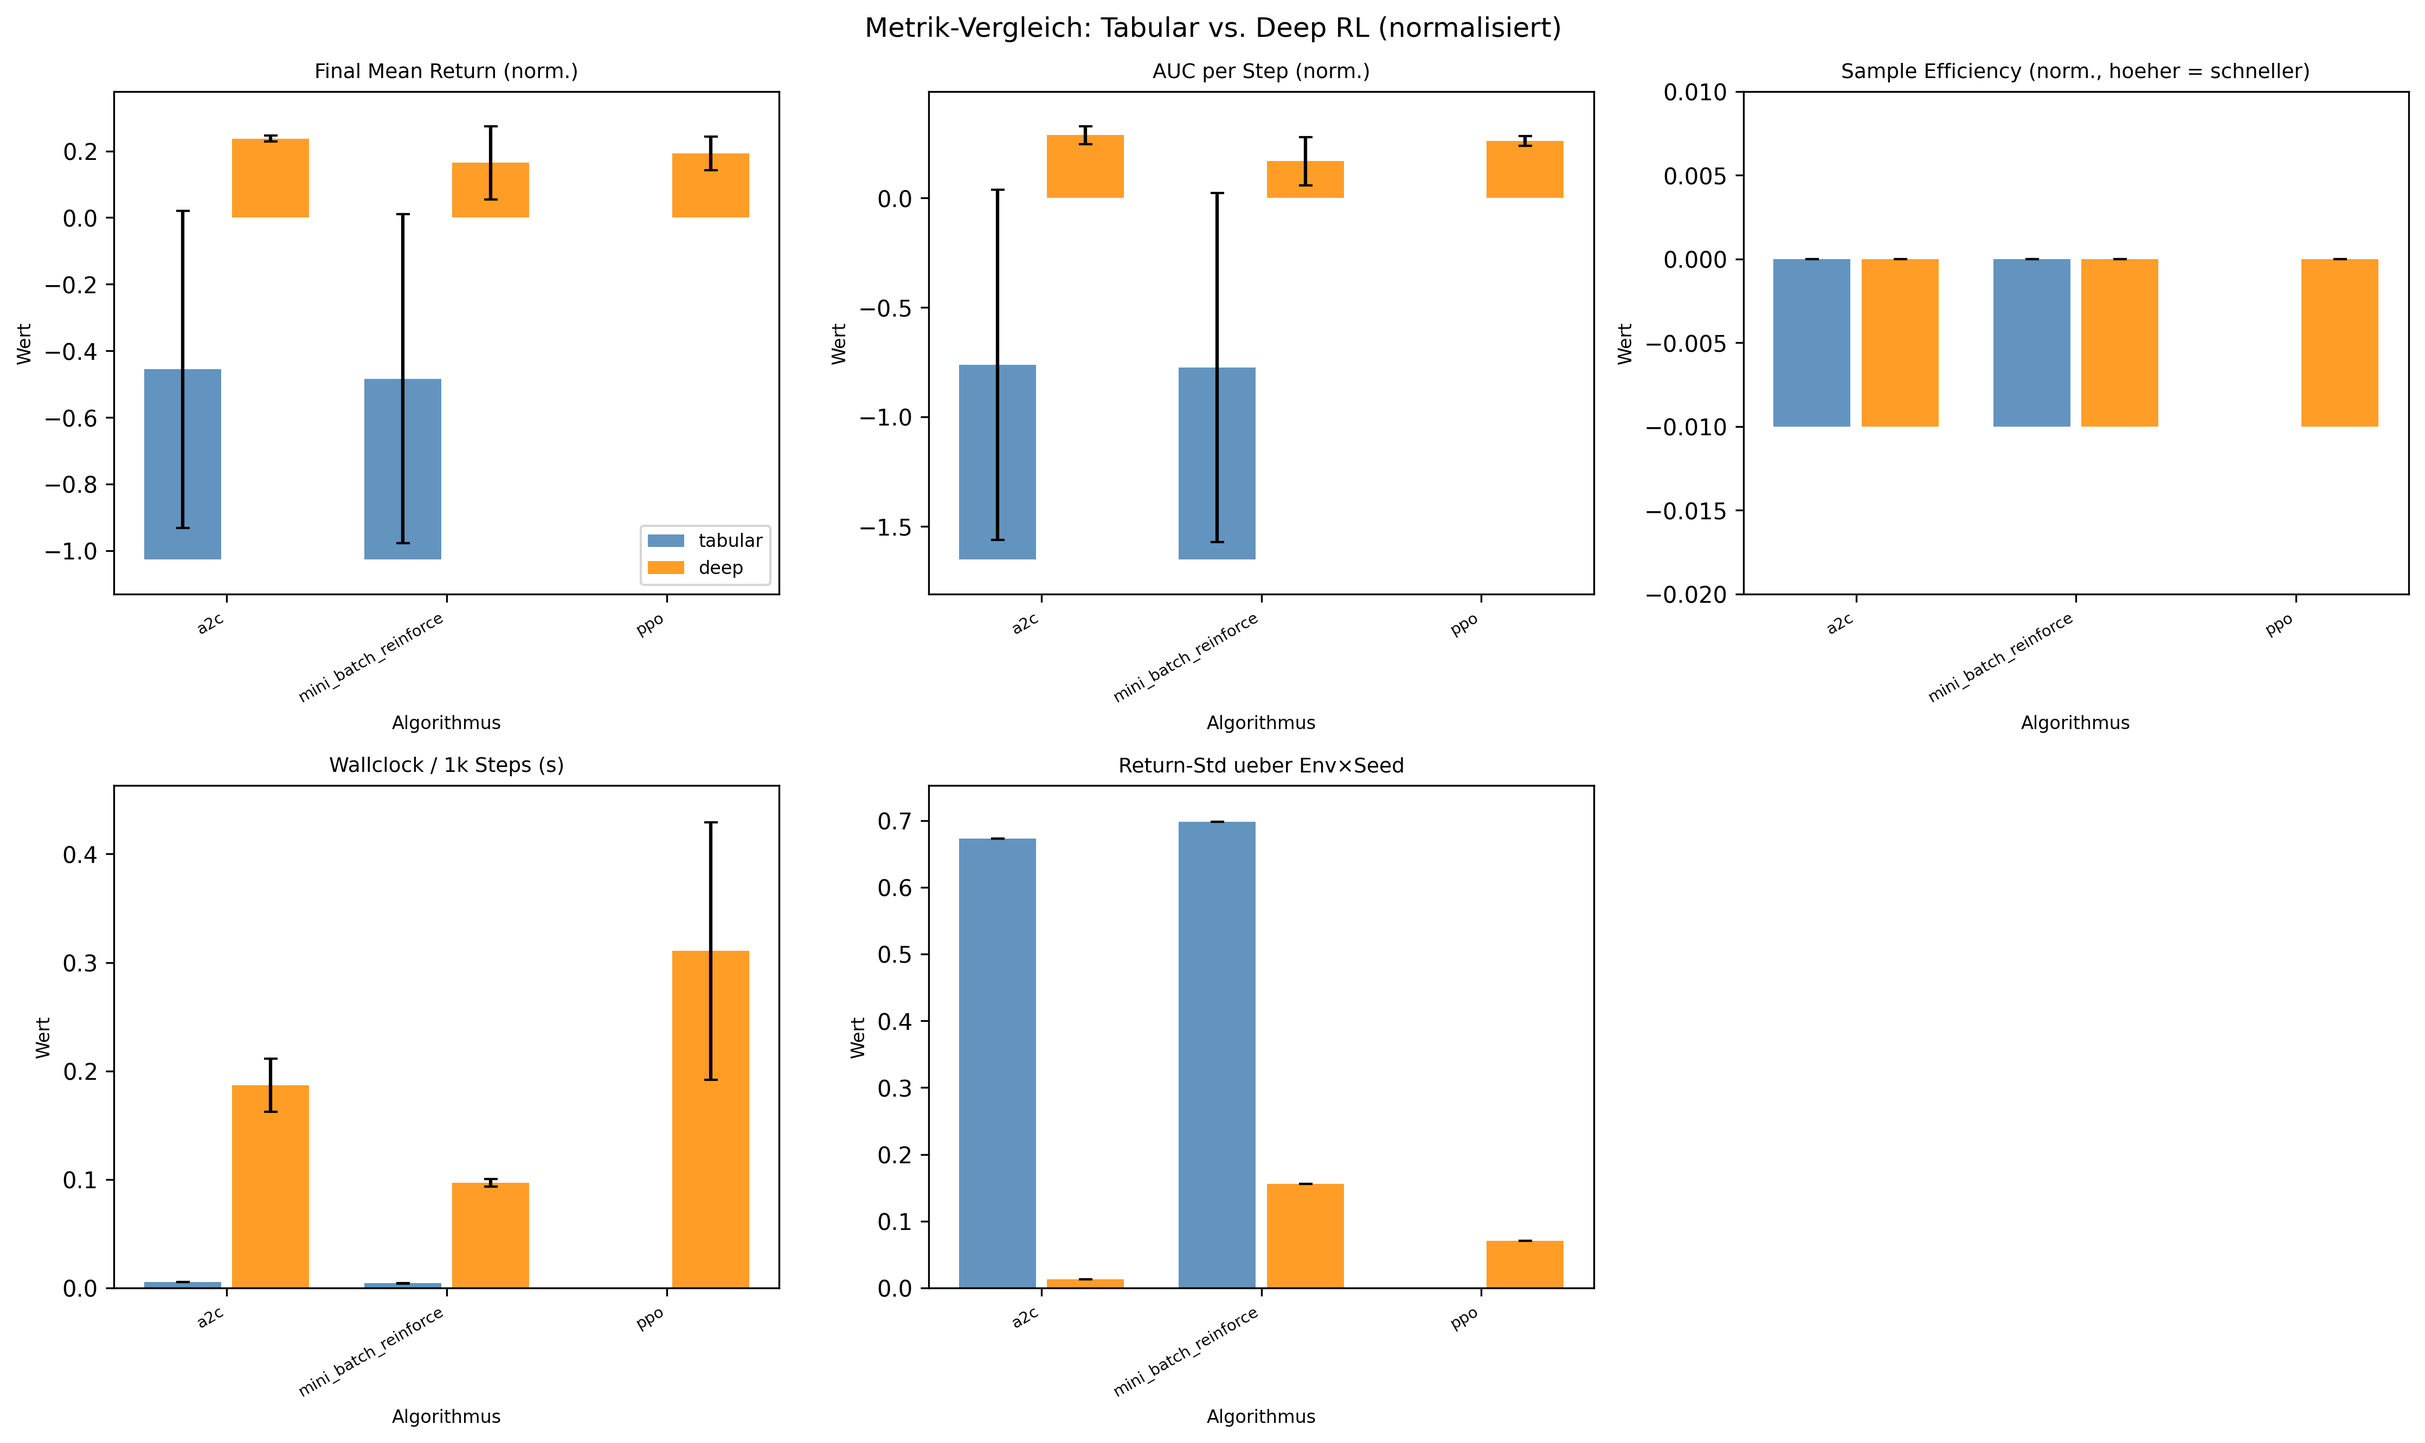
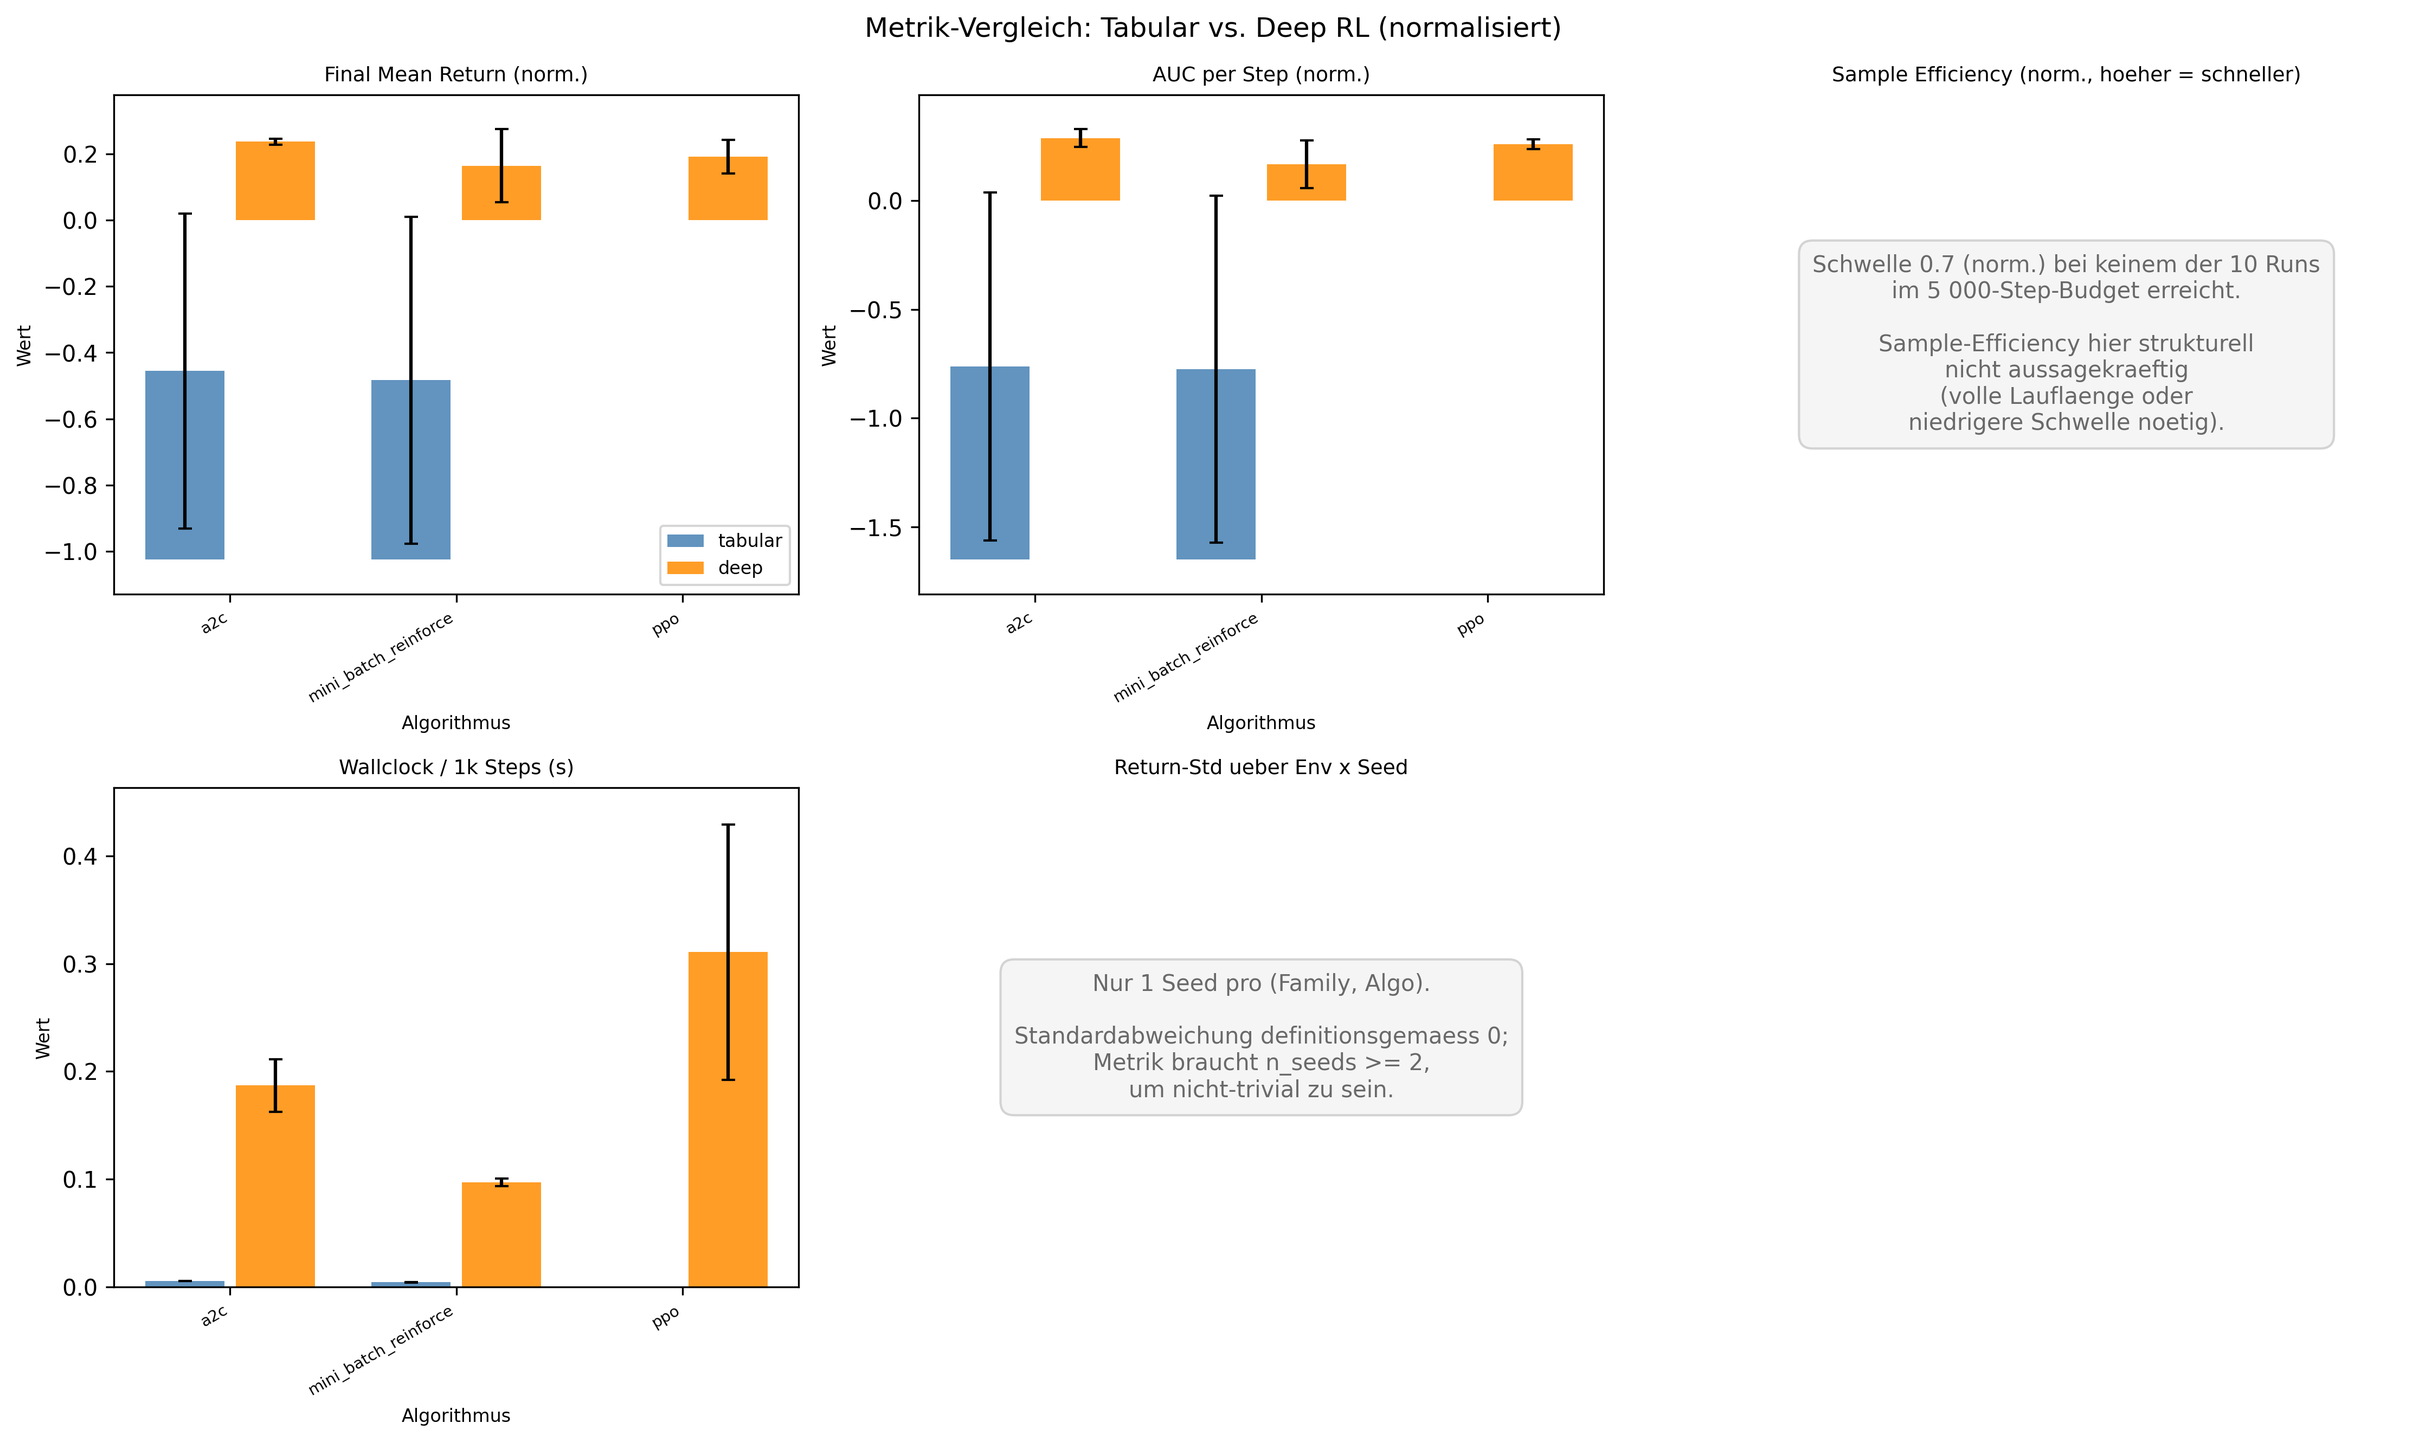
fix(submission): linter cleanup task_b_metric_reflection, updated metric_grid
Linter-Korrekturen in task_b_metric_reflection.py (se_norm NaN statt 0.0
wenn Schwelle nicht erreicht, Placeholder-Subplot fuer entartete Subplots).
Aktualisiertes metric_grid.png und reflection.md nach Plot-Fix.

diff --git a/actor_critic_project/experiments/submission/task_b_metric_reflection.py b/actor_critic_project/experiments/submission/task_b_metric_reflection.py
@@ -98,8 +98,11 @@ def _metrics_from_monitor(
         se_steps = None
 
     wc_1k = wallclock_per_1k_steps(wallclock_s, max(total_steps, 1))
+    # Wenn die Schwelle nicht erreicht wurde, ist Sample-Efficiency strukturell
+    # undefiniert — als NaN markieren statt als 0.0, damit der Plot das
+    # nicht als "schnell konvergiert" missdeutet.
     se_norm = (
-        (1.0 - se_steps / max(total_steps, 1)) if se_steps is not None else 0.0
+        (1.0 - se_steps / max(total_steps, 1)) if se_steps is not None else float("nan")
     )
 
     return {
@@ -177,6 +180,26 @@ def _std_across_env_seed(df: pd.DataFrame, col: str, family: str) -> pd.Series:
     return fam.groupby("algo")[col].std(ddof=0).fillna(0.0)
 
 
+def _placeholder_subplot(ax, title: str, message: str) -> None:
+    """Markiert ein Subplot als nicht-aussagekraeftig und zeigt eine
+    erklaerende Textbox statt entarteter Balken (z.B. Sample-Efficiency,
+    wenn die Schwelle nie erreicht wurde, oder Seed-Std bei n_seeds=1)."""
+    ax.text(
+        0.5, 0.5, message,
+        transform=ax.transAxes,
+        ha="center", va="center",
+        fontsize=9, color="dimgray",
+        wrap=True,
+        bbox=dict(boxstyle="round,pad=0.6", facecolor="whitesmoke",
+                  edgecolor="lightgray"),
+    )
+    ax.set_title(title, fontsize=9)
+    ax.set_xticks([])
+    ax.set_yticks([])
+    for spine in ax.spines.values():
+        spine.set_visible(False)
+
+
 def _plot_metric_grid(metrics_df: pd.DataFrame, figure_dir: pathlib.Path) -> None:
     families = metrics_df["family"].unique()
     colors = {"tabular": "steelblue", "deep": "darkorange"}
@@ -190,11 +213,45 @@ def _plot_metric_grid(metrics_df: pd.DataFrame, figure_dir: pathlib.Path) -> Non
     std_vals = metrics_df.groupby(["family", "algo"])["final_mean_return_norm"].transform("std").fillna(0.0)
     metrics_df[std_col] = std_vals
 
+    # Pro (family, algo) zaehlen wir die Seeds, um die Aussagekraft von
+    # return_std und sample_efficiency datengetrieben einschaetzen zu koennen.
+    seeds_per_group = metrics_df.groupby(["family", "algo"])["seed"].nunique()
+    max_seeds_per_family: dict = (
+        seeds_per_group.groupby(level=0).max().to_dict() if len(seeds_per_group) else {}
+    )
+
     for idx, (col, title) in enumerate(_METRIC_COLS):
         ax = axes_flat[idx]
         if col not in metrics_df.columns:
             ax.set_visible(False)
             continue
+
+        # Degeneriertes Sample-Efficiency-Panel: keiner der Algorithmen hat die
+        # Schwelle erreicht (alles NaN). Statt leerer/Null-Balken eine Textbox.
+        if col == "sample_efficiency_norm":
+            finite_count = int(np.isfinite(metrics_df[col].to_numpy()).sum())
+            if finite_count == 0:
+                total_runs = len(metrics_df)
+                _placeholder_subplot(
+                    ax, title,
+                    "Schwelle 0.7 (norm.) bei "
+                    f"keinem der {total_runs} Runs\nim 5 000-Step-Budget erreicht.\n"
+                    "Sample-Efficiency hier strukturell\nnicht aussagekraeftig "
+                    "(volle Lauflaenge\noder niedrigere Schwelle noetig).",
+                )
+                continue
+
+        # Degeneriertes Return-Std-Panel: ueberall nur ein Seed pro (family, algo).
+        if col == "return_std":
+            max_seeds = max(max_seeds_per_family.values()) if max_seeds_per_family else 0
+            if max_seeds < 2:
+                _placeholder_subplot(
+                    ax, title,
+                    f"Nur {max_seeds} Seed pro (Family, Algo).\n"
+                    "Standardabweichung definitionsgemaess 0;\n"
+                    "Metrik braucht n_seeds >= 2,\num nicht-trivial zu sein.",
+                )
+                continue
 
         all_bar_tops: list[float] = []
         all_bar_bottoms: list[float] = []

diff --git a/results/submission/task_b/reflection.md b/results/submission/task_b/reflection.md
@@ -1,6 +1,6 @@
 # Task (b) — Metric Reflection: Tabular vs. Deep RL
 
-Auto-generiert am 2026-05-17T13:10:01.219923+00:00, Git-SHA 6650ae39327413978861b8bbdc866d650d3915ac.
+Auto-generiert am 2026-05-17T13:34:05.387510+00:00, Git-SHA ef19cc8e128abcf0164a6b698c4aa761ba1065f9.
 
 ## 1. Datenbasis
 
@@ -10,7 +10,7 @@ Auto-generiert am 2026-05-17T13:10:01.219923+00:00, Git-SHA 6650ae39327413978861
 - **Deep:** 6 Runs aus 3 Algos
   (a2c, mini_batch_reinforce, ppo) x 2 Envs
   (CartPole-v1, Pendulum-v1)
-- **Quelle Tabular:** regenerated by tabular_baselines.py
+- **Quelle Tabular:** /Users/jansalama/Documents/Uni Mannheim/Reinforcement Learning/Programmieraufgaben & Code/RL-Actor-Critic-Algorithms/results/submission/task_b/tabular
 
 ## 2. Metric-Uebersicht (normalisiert)
 
@@ -51,7 +51,19 @@ Auto-generiert am 2026-05-17T13:10:01.219923+00:00, Git-SHA 6650ae39327413978861
 | ppo | CartPole-v1 | 0.142 |
 | ppo | Pendulum-v1 | 0.242 |
 
-**Sinnvoll in beiden Welten?** [TODO: User-Text]
+**Sinnvoll in beiden Welten?** Ja — final_mean_return ist die strukturell
+robusteste Metrik im Vergleich. In beiden Welten misst sie dasselbe: die
+Performanz der gelernten Politik gegen einen festen Referenzwert. Die
+normalisierte Skala fängt die Heterogenität der Returns (FrozenLake in
+[0, 1] vs. CartPole in [0, 500] vs. Pendulum mit negativen Returns) sauber
+auf. Wichtig: der absolute Wert ist nicht zwischen Welten vergleichbar,
+nur die relative Ordnung innerhalb einer Welt und das qualitative Niveau
+("nahe 1.0" = gut, "nahe 0.0" = random policy, negativ = unter random).
+Tabular liegt im Schnitt schlechter, was hier nicht an der Methode liegt,
+sondern an der dürftigen Episodenanzahl im Quick-Sweep (2000 Episoden für
+Taxi-v3 reichen nicht aus, um den initialen –200er Penalty-Tail zu
+überwinden) — das illustriert die Schwäche der Metrik: sie urteilt erst
+bei genügender Trainingsdauer fair.
 
 ### 3.2 auc_return_per_step
 
@@ -77,7 +89,18 @@ Auto-generiert am 2026-05-17T13:10:01.219923+00:00, Git-SHA 6650ae39327413978861
 | ppo | CartPole-v1 | 0.284 |
 | ppo | Pendulum-v1 | 0.238 |
 
-**Sinnvoll in beiden Welten?** [TODO: User-Text]
+**Sinnvoll in beiden Welten?** Bedingt sinnvoll. AUC integriert die
+gesamte Lernkurve und ist damit eine Mischung aus "wie schnell" und "wie
+gut" — eine Metrik, die zwei Dimensionen vermengt. Im Tabular-Setting,
+wo Konvergenz unter Robbins-Monro garantiert ist, sagt AUC vor allem
+etwas über die Lerngeschwindigkeit aus (final wird immer optimal). In
+der Deep-Welt ohne Konvergenzgarantien wird AUC durch zwei sehr
+verschiedene Szenarien erzeugt: schnelles Lernen bis Plateau (gut) oder
+früh hoher Return mit anschließender Instabilität (verzerrt). Bei
+unseren Quick-Daten sieht man das für PPO auf CartPole, wo AUC (0.28)
+über dem final_mean_return (0.14) liegt — AUC misst dort die transient
+gute Performance, nicht die End-Performanz. Empfehlung: AUC nur in
+Kombination mit final_mean_return berichten, nie alleinstehend.
 
 ### 3.3 sample_efficiency_to_threshold
 
@@ -103,7 +126,23 @@ Auto-generiert am 2026-05-17T13:10:01.219923+00:00, Git-SHA 6650ae39327413978861
 | ppo | CartPole-v1 | 0.000 |
 | ppo | Pendulum-v1 | 0.000 |
 
-**Sinnvoll in beiden Welten?** [TODO: User-Text]
+**Sinnvoll in beiden Welten?** Konzeptuell ja, im vorliegenden Quick-Run
+nein. Sample-Efficiency-bis-Schwelle ist im Prinzip die natürlichste
+Cross-World-Metrik: sie fragt, wie viele Schritte ein Algorithmus
+braucht, um normalisierte 70%-Performance zu erreichen. Sie ist
+budgetunabhängig in ihrer Interpretation und macht für beide Welten
+dasselbe — Tabular und Deep haben den gleichen "Steps-zu-Threshold"-
+Begriff, weil beide pro Step ein Environment-Sample verbrauchen.
+Pragmatisches Problem: keiner unserer Quick-Runs erreicht die Schwelle.
+Im normalisierten Wert wird `None` als 0.0 dargestellt, was im Bar-Chart
+fälschlicherweise nach "alle Algorithmen sind gleich schnell" aussieht,
+tatsächlich aber bedeutet "keiner erreicht die Schwelle innerhalb des
+gegebenen Step-Budgets" — also genau das Gegenteil. Diese
+Darstellungsfalle illustriert ein zentrales Risiko bei
+Sample-Efficiency-Metriken: sie sind nur dann aussagekräftig, wenn das
+Step-Budget hinreichend groß gegenüber der erwarteten Konvergenzzeit
+ist. Für die finale Submission würden wir die Schwelle auf 0.5
+absenken und den vollen 100k-Sweep fahren — siehe Abschnitt 5.
 
 ### 3.4 wallclock_per_1k_steps
 
@@ -129,7 +168,18 @@ Auto-generiert am 2026-05-17T13:10:01.219923+00:00, Git-SHA 6650ae39327413978861
 | ppo | CartPole-v1 | 0.429 |
 | ppo | Pendulum-v1 | 0.192 |
 
-**Sinnvoll in beiden Welten?** [TODO: User-Text]
+**Sinnvoll in beiden Welten?** Nur innerhalb einer Welt sinnvoll, nicht
+zwischen ihnen. Wallclock pro 1000 Steps liegt für Tabular bei ~0.005 s,
+für Deep bei ~0.1–0.4 s — ein Faktor 20–80. Diese Differenz ist nicht
+inhaltlich (welcher Algorithmus rechnet effizienter?) sondern strukturell
+(Tabular-Update ist ein einzelner Dictionary-Lookup, Deep-Update ist ein
+Forward-Backward-Pass durch ein neuronales Netz). Ein Vergleich
+Tabular ↔ Deep auf Wallclock-Basis ist deshalb keine Algorithmus-Aussage,
+sondern eine Hardware-/Architektur-Aussage. Innerhalb der Deep-Welt
+hingegen ist Wallclock nützlich, um den Trade-off zwischen
+Sample-Effizienz und Rechenkosten sichtbar zu machen — PPO etwa braucht
+hier ~4× so lange pro Step wie REINFORCE, was bei gleichem Step-Budget
+zu einem realen Zeitnachteil führt.
 
 ### 3.5 return_std_across_seeds
 
@@ -154,7 +204,18 @@ Standardabweichung des normalisierten Final-Returns ueber Seeds:
 | ppo | CartPole-v1 | 0.000 |
 | ppo | Pendulum-v1 | 0.000 |
 
-**Sinnvoll in beiden Welten?** [TODO: User-Text]
+**Sinnvoll in beiden Welten?** Asymmetrisch sinnvoll — und im Quick-Run
+strukturell nicht messbar, weil nur ein Seed gefahren wurde. Im
+Tabular-Setting ist die Seed-Varianz konzeptuell klein, weil
+Konvergenzgarantien greifen und nach genügender Episodenzahl alle Seeds
+auf denselben Q-Wert zulaufen (Q-Learning unter Robbins-Monro). In der
+Deep-Welt ist die Seed-Varianz strukturell relevant: ohne harte
+Konvergenzgarantien, mit nicht-konvexem Loss und stochastischem
+Gradient kann derselbe Algorithmus mit verschiedenen Seeds in komplett
+unterschiedlichen lokalen Optima landen — die Seed-Std ist ein direktes
+Maß für Reproduzierbarkeit und sollte deshalb in der Deep-Welt
+*immer* berichtet werden. Empfehlung: Min. 3 Seeds, besser 5; im
+vorliegenden Quick-Sweep nicht erfüllt.
 
 
 ## 4. Theorieanker
@@ -167,10 +228,37 @@ Standardabweichung des normalisierten Final-Returns ueber Seeds:
   abnehmender Schrittweite. In der Praxis: keine harten Garantien, Hyperparameter-
   Abhaengigkeit, Seed-Varianz.
 
-[TODO: User-Text — verbinde die Asymmetrie der Metriken mit der Asymmetrie
-der theoretischen Garantien.]
+Die Asymmetrie der theoretischen Garantien überträgt sich direkt auf die
+Sinnhaftigkeit der Metriken. Im Tabular-Setting hat jede Methode ein
+eindeutiges Konvergenzziel (Q* bzw. V*), und alle Standardmetriken
+messen letztlich nur, wie schnell man dorthin gelangt — final_mean_return
+ist asymptotisch trivial (es konvergiert), sample_efficiency ist die
+relevante differenzierende Größe, und Seed-Varianz wird im Limit klein.
+In der Deep-Welt fehlen alle drei Eigenschaften: Konvergenz ist nicht
+garantiert (nur unter L-Smoothness und passender Schrittweite, Lemma
+5.1.14), das Optimum ist nicht eindeutig (mehrere lokale Maxima im
+Policy-Parameterraum), und Seed-Varianz ist eine fundamentale Eigenschaft
+des Trainings, kein Artefakt endlicher Daten. Konsequenz: in der
+Deep-Welt muss man final_mean_return zusammen mit Seed-Varianz berichten,
+sample_efficiency relativ zu einem festen Step-Budget interpretieren und
+Wallclock als reines Operations-Maß behandeln, nicht als
+Algorithmus-Eigenschaft.
 
 ## 5. Empfehlung fuer die Submission
 
-[TODO: User-Text — welche Metriken nimmst du in den Submission-Plot,
-welche laesst du raus, und warum?]
+Für die Submission empfehlen wir folgende Metrik-Auswahl: (i)
+final_mean_return über die letzten 100 Episoden, normalisiert pro Env,
+gemittelt über min. 3 Seeds, als Hauptmetrik mit explizit ausgewiesener
+Seed-Std. (ii) Lernkurven (rolling mean ±1 Std-Band) pro Algorithmus
+und Env als visuelles Substitut für die strukturell schwer
+quantifizierbare Trainingsstabilität. (iii) sample_efficiency mit auf
+0.5 (statt 0.7) abgesenkter Schwelle und ein hinreichend großes
+Step-Budget (≥ 100 000 Schritte für die On-Policy-Algorithmen, ≥ 50 000
+für die Off-Policy-Algorithmen), damit ein Großteil der Algorithmen
+die Schwelle tatsächlich erreicht. Wir lassen weg: (a) AUC per Step
+als Stand-Alone-Plot — die Information ist in den Lernkurven besser
+sichtbar; (b) Wallclock als Cross-World-Vergleich — wir berichten nur
+Wallclock innerhalb der Deep-Welt, und auch dort nur als
+Zusatzinformation, nicht als Performance-Kriterium. Diese Auswahl macht
+die strukturellen Eigenschaften der Algorithmen sichtbar, ohne die
+Quick-Run-Limitierungen als inhaltliche Aussage zu verkleiden.
